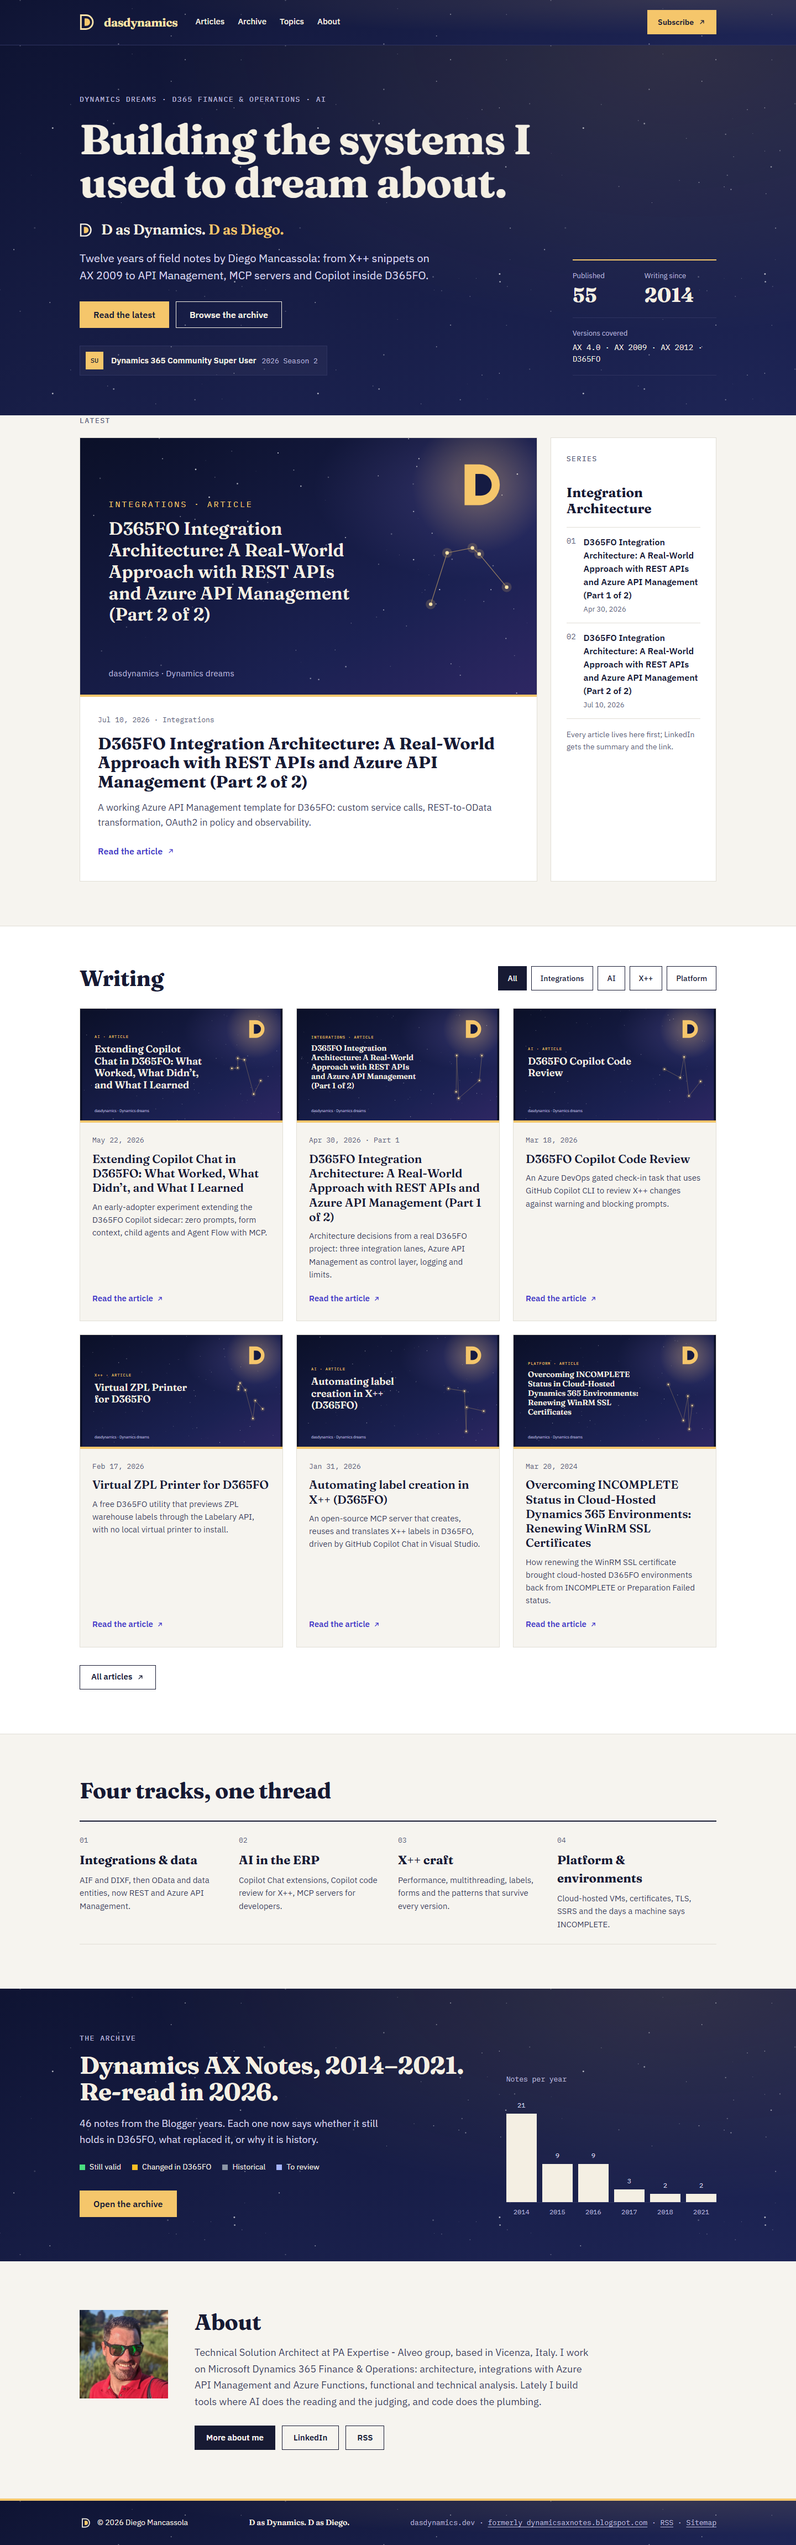
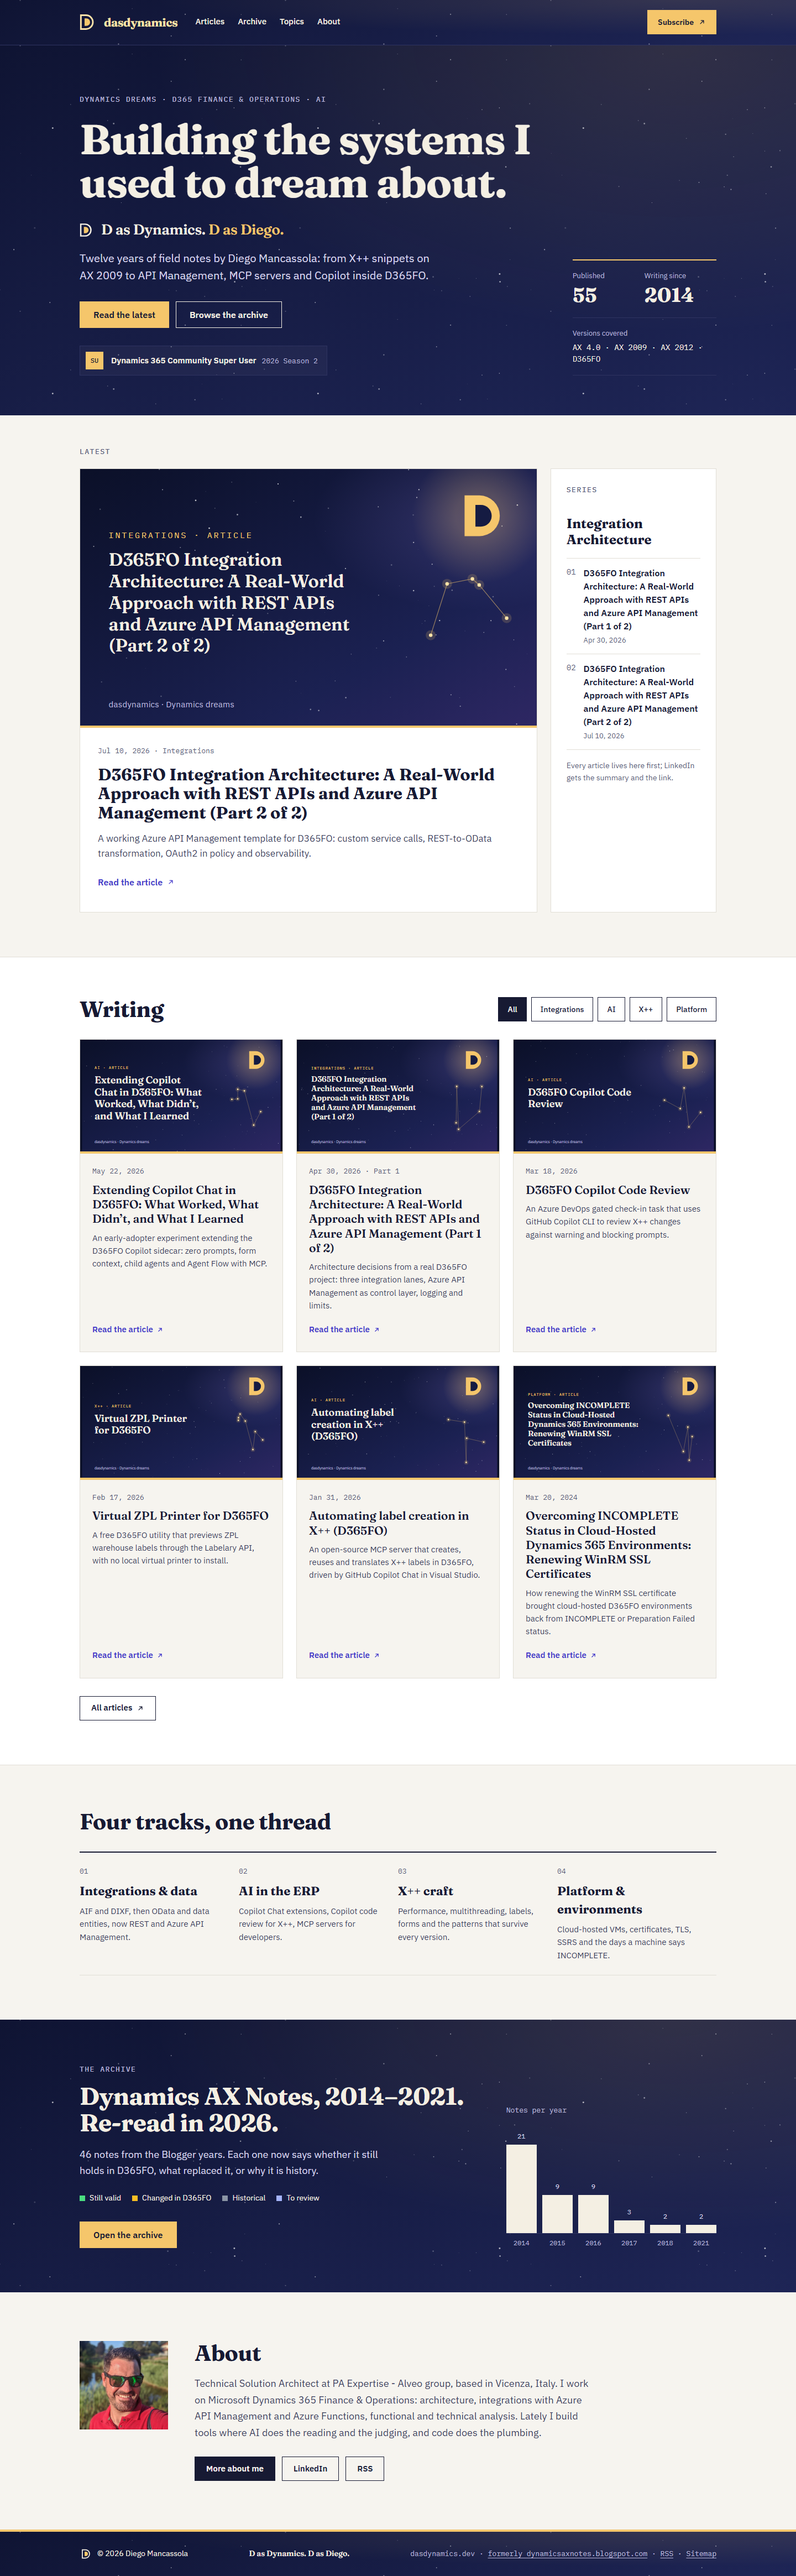
Clean up after review: unused keys, schema doc, cover fallback width, new-article cover errors
Claude-Session: https://claude.ai/code/session_01JawJNQwGofq435qifKxXFM

diff --git a/src/styles/global.css b/src/styles/global.css
@@ -401,16 +401,6 @@ a.tag:hover {
   background: var(--v-review-dot);
 }
 
-.pin {
-  display: inline-flex;
-  align-items: center;
-  gap: 6px;
-  font-family: var(--font-mono);
-  font-size: 12px;
-  letter-spacing: 1px;
-  text-transform: uppercase;
-}
-
 .arrow {
   flex: none;
 }

diff --git a/docs/CONTENT-SCHEMA.md b/docs/CONTENT-SCHEMA.md
@@ -18,23 +18,26 @@ originalUrl: "https://dynamicsaxnotes.blogspot.com/..."  # where it was first pu
 mergedFrom: []              # other original URLs merged into this one
 series: "integration-architecture"   # optional
 seriesPart: 1                        # optional
-cover: "APIM"               # optional: short word on the card cover (max 12 chars); default is the track code
-image: "/images/articles/<slug>/cover.png"   # optional: cover image, file under public/ (png, jpg, webp, gif, avif)
+image: "/images/articles/<slug>/cover.png"   # optional: original picture of an imported article (png, jpg, webp, gif, avif)
 imageAlt: "What the picture shows"           # required when image is set
 pinned: false               # true = shown first on the home page
 draft: false                # true = only in `npm run dev`, never in the built site
 ---
 ```
 
-## Cover image
+## Covers
 
-`image` is optional. When it is set, the picture replaces the typographic cover
-on the cards (home and `/articles/`), sits under the title on the article page,
-and is the Open Graph, Twitter and JSON-LD image of the page. Without it the card
-keeps the typographic cover (`cover` or the track code) and the page uses the
-generated `og-default.png`. Covers are shown in a 16:9 box: 1280x720 is the
-right size. `node scripts/validate-content.mjs` checks that the file exists
-under `public/images/articles/<slug>/`, is a real image, and has `imageAlt`.
+Every article (`kind: article`) has a generated cover: the same night-sky
+template (`src/lib/cover.mjs`) with its title and track. The site draws it inline
+on the cards and at the top of the article; `npm run covers` renders it to
+`public/images/covers/<slug>.jpg`, the Open Graph, Twitter and JSON-LD image.
+Notes have no cover and use `og-default.png`. The validator fails if an
+article has no cover file.
+
+`image` is optional: the original picture of an imported article (the LinkedIn
+cover), shown at the start of the article with a caption. The validator checks
+that the file exists under `public/images/articles/<slug>/`, is a real image,
+and has `imageAlt`.
 
 The slug (file name) is the URL: `/articles/<slug>/` for both kinds. The schema is
 enforced by `src/content.config.ts`: a note without `verdict` or a `description`

diff --git a/docs/PUNTI-APERTI.md b/docs/PUNTI-APERTI.md
@@ -28,7 +28,7 @@ Scelte prese dall'esecutore, da confermare:
 - **Astro 7** con il processore Markdown `unified` (non Sätteri, il nuovo predefinito) per un piccolo plugin che trasforma `## In D365FO today` nel riquadro scuro del mockup.
 - **X++** evidenziato con la grammatica C# (Shiki non ha X++).
 - **Filtri senza JavaScript**: per filone e per verdetto sono pagine vere (`/articles/track/<filone>/`, `/archive/<verdetto>/`); la ricerca nell'archivio compare solo con JavaScript attivo (script inline piccolo).
-- **Campo `cover`** opzionale nel frontmatter: la parola grande sulla copertina della card (es. «APIM»); senza, il codice del filone.
+- **Copertine generate** (10/10): stesso modello notturno per ogni articolo (`src/lib/cover.mjs`), JPEG per le anteprime social con `npm run covers`; il campo `cover` non esiste più. Le copertine originali di LinkedIn stanno dentro l'articolo con una didascalia: da confermare con Diego se tenerle (il controllore nota che ripetono la copertina in testa).
 - **Selettore EN / IT** del mockup tolto finché l'italiano non è pubblicato. Il bottone «Subscribe» porta all'RSS.
 - **Credenziale Super User** in home e in About; il link all'articolo appare solo quando l'articolo non è più bozza.
 - **GitHub** tolto dai link di About: manca l'indirizzo del profilo.
